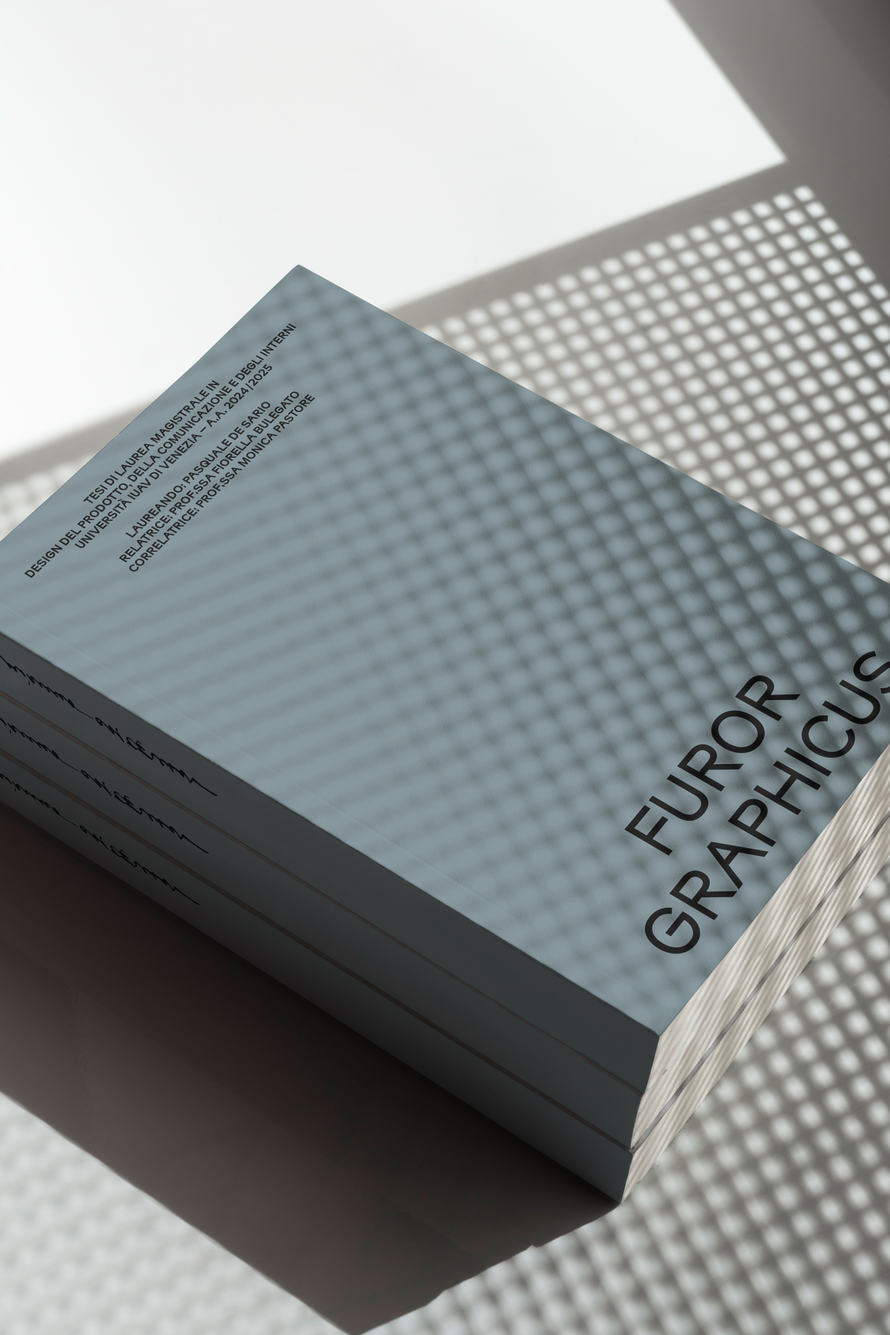
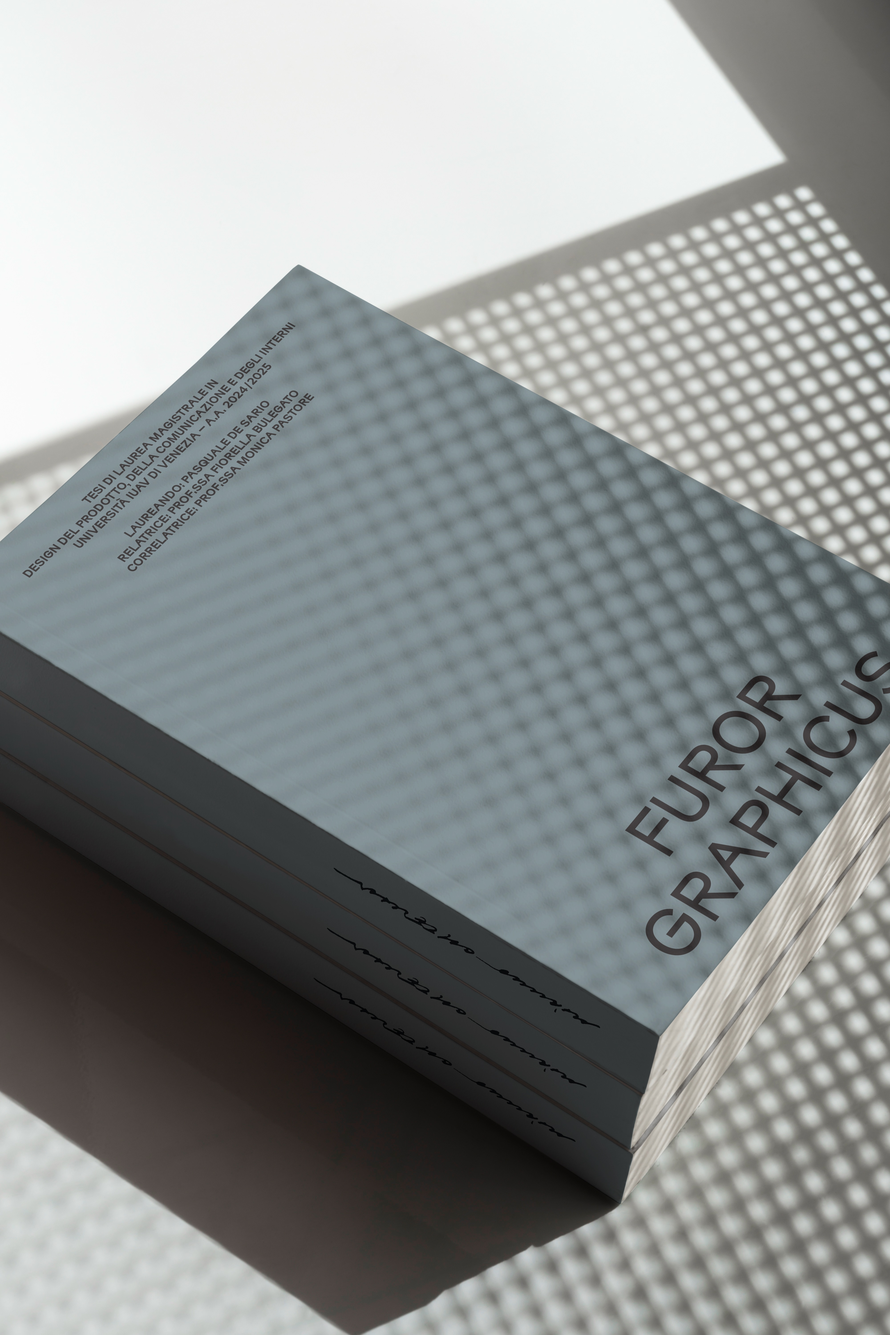
Sm

diff --git a/index.html b/index.html
@@ -112,6 +112,10 @@
             <div class="project-gallery"></div>
         </section>
 
+        <section class="project" data-title="Singolarità multiple. Esoeditoria in Italia 1920–1980" data-category="Research — Book Design" data-year="@Iuav, 2023, w/ Jolanda Baudino, Chiara Lorenzo & Irene Mazzoleni" data-images="Projects/Sm_1.jpeg|Projects/Sm_2.jpeg">
+            <div class="project-gallery"></div>
+        </section>
+
         <section class="project" data-title="&lt;a href=&quot;https://www.instagram.com/p/DEAFcCboJDO&quot;&gt;Modernizzare stanca&lt;/a&gt;" data-category="Poster" data-year="@Spazio Alelaie, 2024" data-images="Projects/MS_Alelaie_1.jpeg|Projects/MS_Alelaie_2.jpeg">
             <div class="project-gallery"></div>
         </section>
